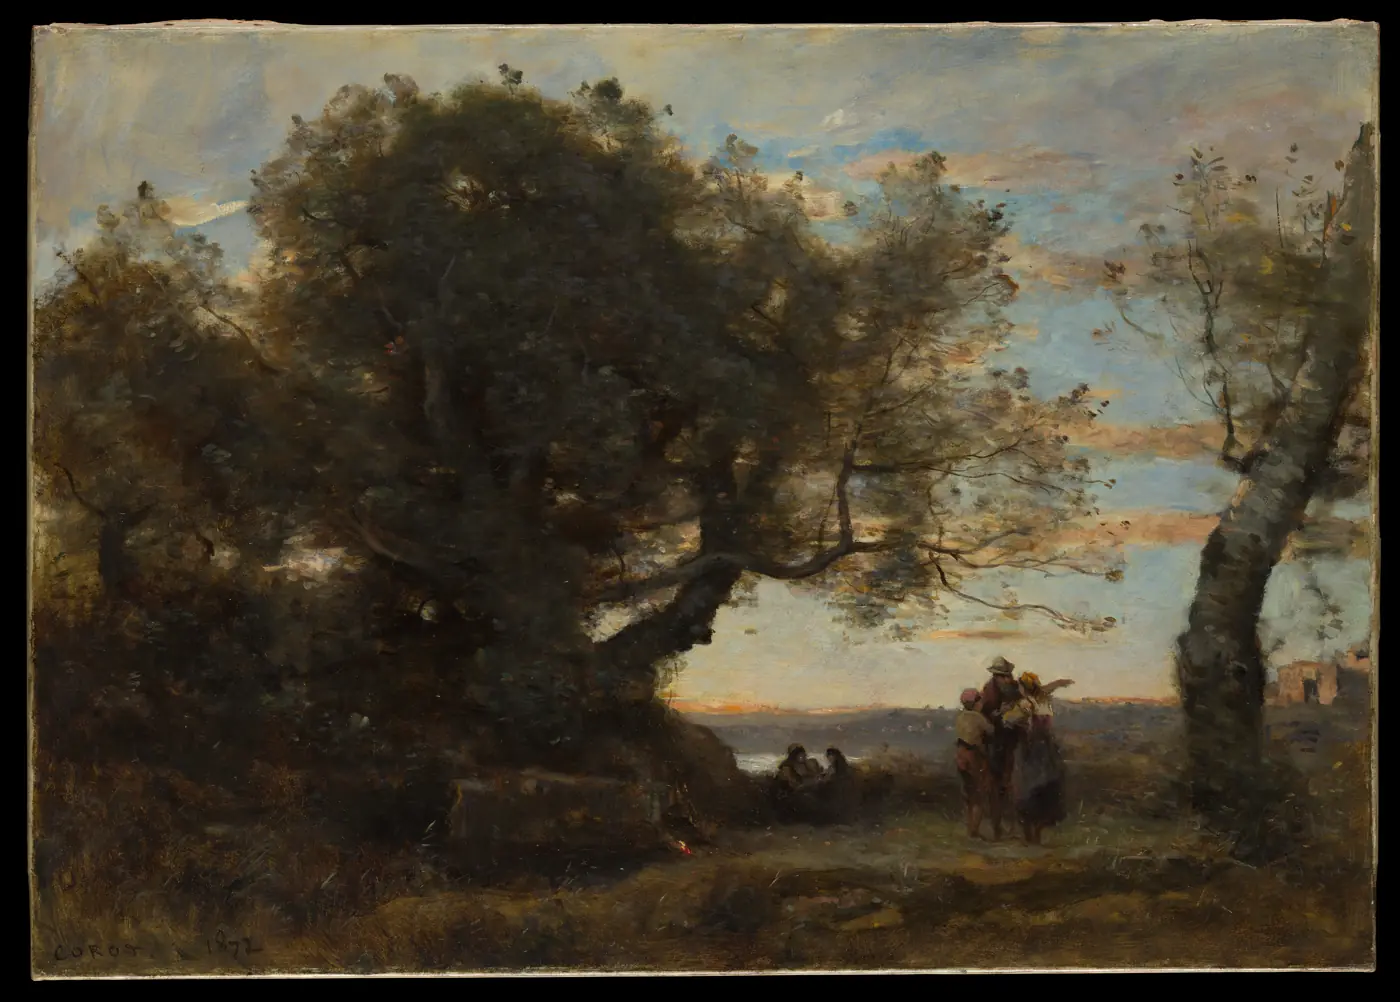
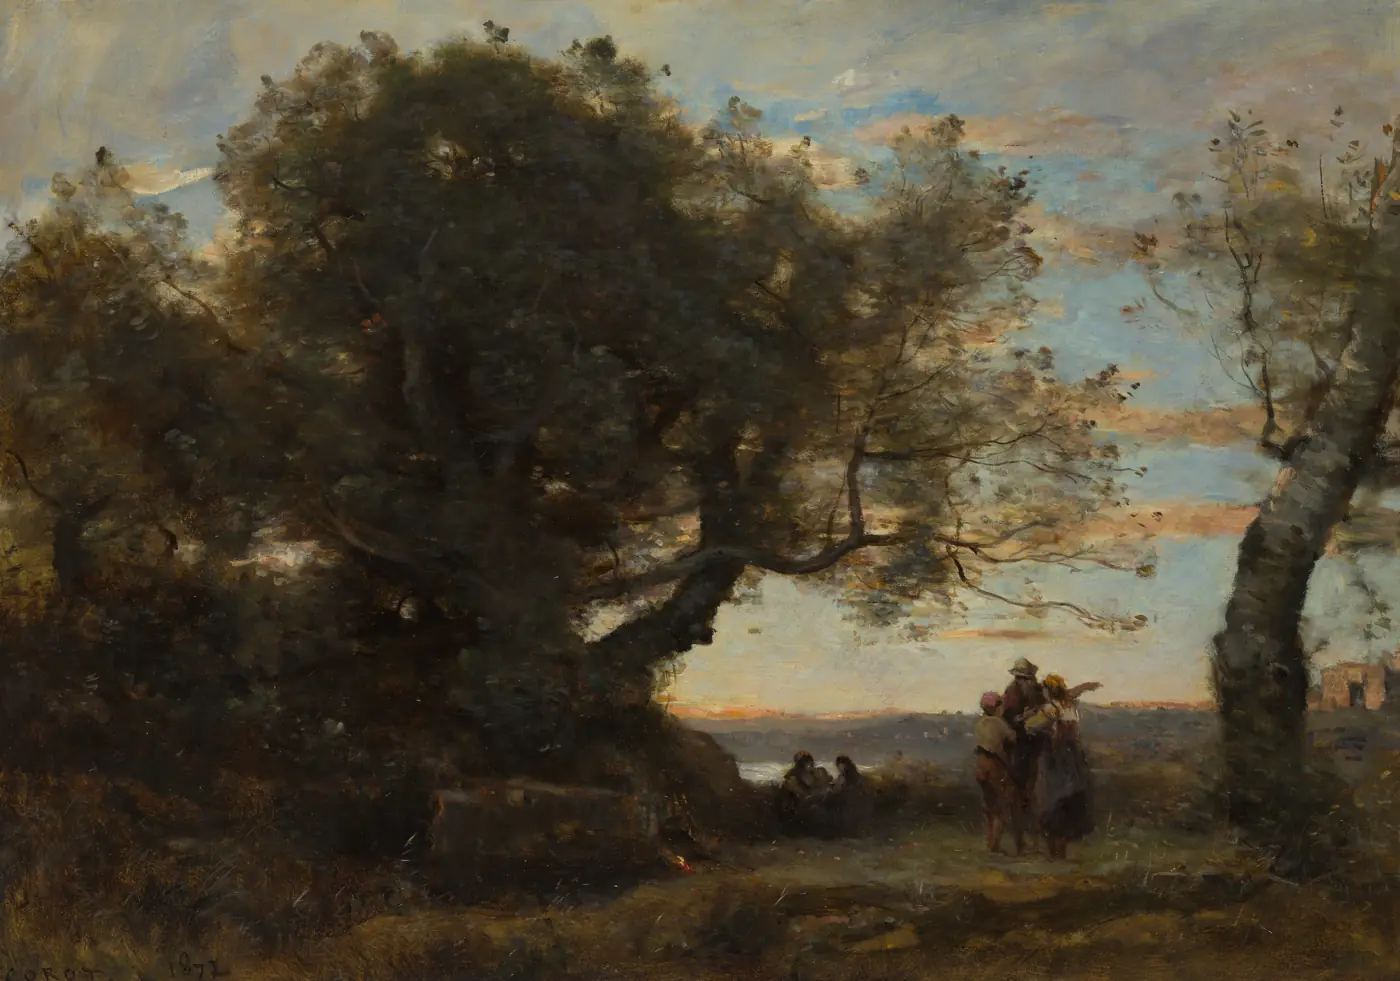
Retire les promesses de délai, aligne les images et remplace les boutons de zones
- Suppression des mentions « sous 48 h » et délais assimilés
- Images alignées (carrousel, paires, cartes), photo Corot recadrée
- Accueil : sélecteur de département et liste de liens à la place des boutons

Claude-Session: https://claude.ai/code/session_017in6YU8D4HCpZFMNz5qKrV

diff --git a/src/data/site.ts b/src/data/site.ts
@@ -69,7 +69,7 @@ export const SPECIALITES: Specialite[] = [
     ],
     points: ['Huiles sur toile et sur panneau', 'Portraits et scènes de genre', 'Paysages de l’école de Barbizon', 'Marines et vues de ports', 'Dessins, pastels et gravures'],
     faq: [
-      { q: 'Comment faire estimer un tableau ancien gratuitement ?', a: 'Envoyez des photographies du recto, du verso, de la signature et des cachets via notre formulaire. Nous vous répondons sous 48 heures avec une première fourchette de valeur.' },
+      { q: 'Comment faire estimer un tableau ancien gratuitement ?', a: 'Envoyez des photographies du recto, du verso, de la signature et des cachets via notre formulaire. Nous vous répondons avec une première fourchette de valeur.' },
       { q: 'Rachetez-vous les tableaux sans signature ?', a: 'Oui. De nombreuses œuvres anciennes ne sont pas signées. Nous les étudions à partir de leur style, de leur support et de leur histoire.' },
     ],
   },
@@ -164,7 +164,7 @@ export const SPECIALITES: Specialite[] = [
     ],
     points: ['Commodes et bureaux Louis XV et Louis XVI', 'Armoires et buffets provinciaux', 'Secrétaires et cabinets marquetés', 'Fauteuils, canapés et sièges estampillés', 'Mobilier de campagne et de gentilhommière'],
     faq: [
-      { q: 'Mon meuble ancien a-t-il encore de la valeur ?', a: 'Cela dépend de l’époque, de la qualité et de l’état. Une estimation gratuite à partir de photographies vous donne une première réponse sous 48 heures.' },
+      { q: 'Mon meuble ancien a-t-il encore de la valeur ?', a: 'Cela dépend de l’époque, de la qualité et de l’état. Une estimation gratuite à partir de photographies vous donne une première réponse.' },
       { q: 'Reprenez-vous le contenu complet d’une maison ?', a: 'Oui. Nous rachetons les pièces d’intérêt et pouvons organiser le débarras du reste dans le cadre d’une succession.' },
     ],
   },
@@ -195,7 +195,7 @@ export const SPECIALITES: Specialite[] = [
     ],
     points: ['Porcelaines de Chine et d’Europe', 'Faïences régionales', 'Cristal de Baccarat et de Saint-Louis', 'Argenterie et ménagères', 'Services complets de table'],
     faq: [
-      { q: 'Comment savoir si ma porcelaine est ancienne ?', a: 'Regardez le dessous de la pièce : marque, numéro, signature de manufacture. Envoyez-nous les photographies, nous vous répondons sous 48 heures.' },
+      { q: 'Comment savoir si ma porcelaine est ancienne ?', a: 'Regardez le dessous de la pièce : marque, numéro, signature de manufacture. Envoyez-nous les photographies, nous vous répondons.' },
       { q: 'Une pièce ébréchée peut-elle être rachetée ?', a: 'Oui, si la pièce présente un intérêt. L’estimation tient compte des accidents et des restaurations.' },
     ],
   },
@@ -206,6 +206,5 @@ export const FAQ_GENERAL = [
   { q: 'Dans quelles zones intervenez-vous ?', a: 'Nous couvrons toute la Nouvelle-Aquitaine (12 départements) et toute l’Occitanie (13 départements), de la Charente-Maritime aux Pyrénées-Orientales et de la Corrèze à la Gironde.' },
   { q: 'Comment se déroule le rachat d’une succession ?', a: 'Après un inventaire et une estimation écrite, nous vous remettons une proposition de rachat ferme. En cas d’accord, l’enlèvement est organisé et le paiement effectué par virement sécurisé.' },
   { q: 'Quels objets rachetez-vous ?', a: 'Mobilier ancien, tableaux, bronzes, sculptures, bijoux, montres, pendules, porcelaines, argenterie, livres anciens, tapis, objets de collection et d’art décoratif.' },
-  { q: 'Sous quel délai recevrai-je une réponse ?', a: 'Une première estimation est transmise sous 48 heures. La visite à domicile est généralement planifiée dans la semaine suivante.' },
   { q: 'Puis-je faire estimer des objets sans les vendre ?', a: 'Oui. Nous établissons des estimations pour assurance, partage successoral, donation ou simple curiosité.' },
 ];

diff --git a/src/styles/global.css b/src/styles/global.css
@@ -166,7 +166,7 @@ ul, ol { margin: 0; padding: 0; list-style: none; }
 .step { flex: 0 0 280px; scroll-snap-align: start; }
 .step h3 { font-family: var(--text); font-weight: 700; font-size: 1.1875rem; letter-spacing: 0; line-height: 1.3; }
 .step p { font-size: 1rem; color: var(--muted); margin: 8px 0 0; }
-.step .gap { height: var(--gapv, 100px); }
+.step .gap { height: 28px; }
 
 /* ---------- tableau (liste) ---------- */
 .statement { padding-left: 3vw; font-size: clamp(2.2rem, 1.2rem + 3.6vw, 4.25rem); line-height: 0.98; max-width: 17ch; }
@@ -234,8 +234,8 @@ details[open] .chev { transform: rotate(225deg) translate(-2px, -2px); }
 .prose-row .body { grid-column: 8 / 13; max-width: 56ch; }
 .prose-row + .prose-row { margin-top: 96px; }
 .pair { align-items: start; }
-.pair .a { grid-column: 2 / 6; } .pair .b { grid-column: 7 / 12; margin-top: 140px; }
-.pair-wide .a { grid-column: 1 / 8; } .pair-wide .b { grid-column: 9 / 13; margin-top: 90px; }
+.pair .a { grid-column: 1 / 6; } .pair .b { grid-column: 7 / 13; margin-top: 0; }
+.pair-wide .a { grid-column: 1 / 8; } .pair-wide .b { grid-column: 9 / 13; margin-top: 0; }
 .cap-line { margin-top: 10px; font-size: var(--step-small); color: var(--muted); }
 .points { grid-column: 8 / 13; }
 .points li { padding: 14px 0; font-size: 1.1875rem; }
@@ -243,10 +243,9 @@ details[open] .chev { transform: rotate(225deg) translate(-2px, -2px); }
 .points li a:hover { text-decoration: underline; }
 .cards { display: grid; grid-template-columns: repeat(12, minmax(0, 1fr)); gap: var(--gap); }
 .mcard { text-decoration: none; display: block; }
-.mcard:nth-child(1) { grid-column: 1 / 6; } .mcard:nth-child(2) { grid-column: 7 / 13; margin-top: 64px; }
-.mcard:nth-child(3) { grid-column: 1 / 7; margin-top: 24px; } .mcard:nth-child(4) { grid-column: 8 / 13; margin-top: 56px; }
-.mcard:nth-child(5) { grid-column: 1 / 6; margin-top: 40px; }
-.mcard-note { grid-column: 8 / 13; align-self: center; margin-top: 40px; }
+.mcard { grid-column: span 6; }
+
+.mcard-note { grid-column: span 6; align-self: center; }
 .mcard-note p { max-width: 36ch; }
 .mcard h3 { font-size: clamp(1.5rem, 1.1rem + 1.2vw, 2.2rem); margin-top: 18px; }
 .mcard p { margin: 8px 0 0; color: var(--muted); font-size: 1.0625rem; max-width: 42ch; }
@@ -315,7 +314,6 @@ details[open] .chev { transform: rotate(225deg) translate(-2px, -2px); }
   .prose-row + .prose-row { margin-top: 56px; }
   .pair .b, .pair-wide .b { margin-top: 0; width: 70%; margin-left: auto; }
   .pair .a { width: 88%; }
-  .mcard:nth-child(n) { margin-top: 24px; }
   .dep-table a { grid-template-columns: 3.2rem 1fr auto; gap: 4px 14px; }
   .f-cols > div { grid-column: span 6; }
   .site-footer { min-height: 0; }
@@ -356,3 +354,18 @@ details[open] .chev { transform: rotate(225deg) translate(-2px, -2px); }
 .dep-list a:hover .n { text-decoration: underline; }
 .region-block { margin-top: 56px; }
 @media (max-width: 860px) { .dep-list { grid-template-columns: 1fr; } .region-block h3 { margin-bottom: 8px; } }
+
+/* sélecteur de zones */
+.zones-grid { align-items: start; row-gap: 40px; }
+.zones-intro { grid-column: 1 / 6; }
+.zones-list { grid-column: 7 / 13; display: grid; gap: 48px; }
+.zones-list h3 { font-size: clamp(1.5rem, 1.1rem + 1.2vw, 2.1rem); margin-bottom: 14px; }
+.zones-list h3 a { text-decoration: none; }
+.zones-list p { font-size: 1.1875rem; line-height: 1.7; max-width: 46ch; margin: 0; }
+.zones-list p a { text-decoration-thickness: 1px; }
+.finder { margin-top: 36px; }
+.finder-label { display: block; font-weight: 600; margin-bottom: 10px; }
+.finder-row { display: flex; gap: 8px; }
+.finder select { flex: 1; min-height: 52px; padding: 0 16px; font: inherit; font-size: 1.0625rem; background: var(--surface); color: var(--ink); border: 0; border-radius: 0; cursor: pointer; }
+.finder .btn { padding: 0 24px; }
+@media (max-width: 860px) { .zones-list { gap: 32px; } }

diff --git a/src/data/territoires.ts b/src/data/territoires.ts
@@ -42,7 +42,7 @@ export const REGIONS: Region[] = [
     lead: 'De La Rochelle à Biarritz, de Limoges au Périgord : nous estimons, expertisons et rachetons les antiquités des douze départements de Nouvelle-Aquitaine.',
     paragraphs: [
       'La Nouvelle-Aquitaine est la plus vaste région de France, et son patrimoine mobilier est à l’image de sa diversité : hôtels d’armateurs de La Rochelle et de Bordeaux, châteaux du Périgord, demeures du Limousin, tapisseries d’Aubusson, porcelaines de Limoges, villas de Biarritz et fermes basques.',
-      'Notre équipe se déplace gratuitement dans les douze départements pour estimer vos objets d’art, organiser un inventaire de succession ou racheter une collection. Une première estimation à partir de photographies vous est remise sous 48 heures.',
+      'Notre équipe se déplace gratuitement dans les douze départements pour estimer vos objets d’art, organiser un inventaire de succession ou racheter une collection. Une première estimation à partir de photographies vous est remise gratuitement.',
     ],
   },
   {
